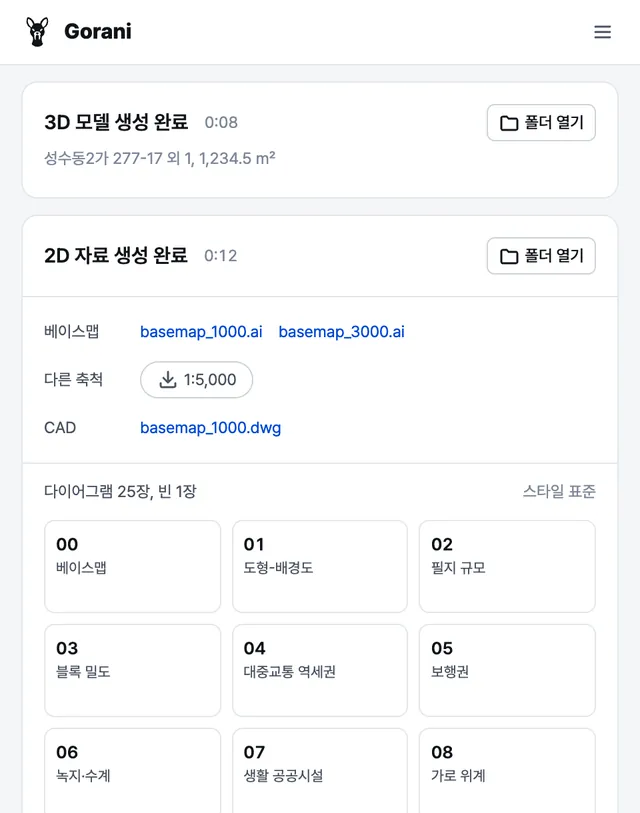
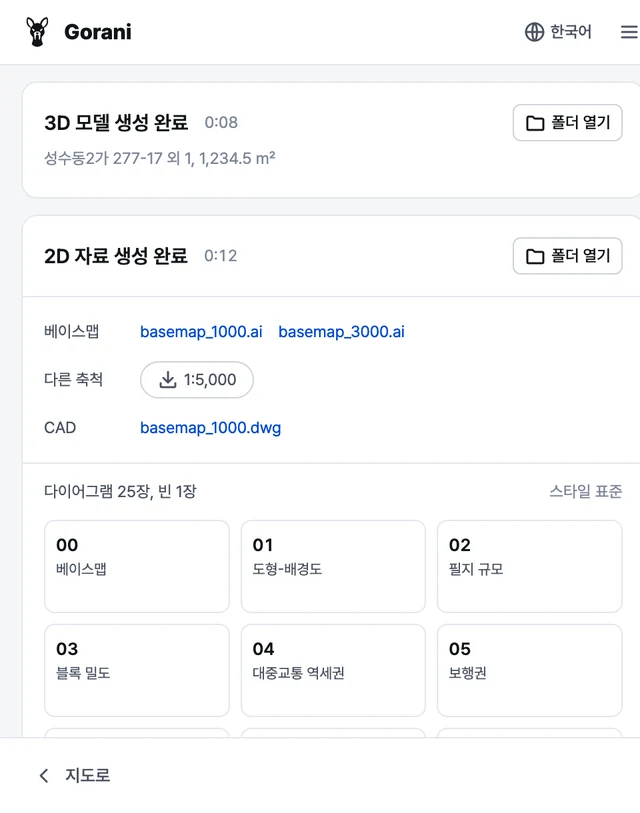
다국어 패널(0.3.0): 영어 페이지 사용 순서 그림을 영어 패널로, 두 페이지에 언어 안내, llms.txt 버튼 이름, 버전 0.3.0

diff --git a/en/index.html b/en/index.html
@@ -39,7 +39,7 @@
       "applicationSubCategory": "Rhino 8, SketchUp, Blender plugin",
       "operatingSystem": "Windows, macOS",
       "softwareRequirements": "Rhinoceros 8, SketchUp 2022 or later, Blender 4.2 or later",
-      "softwareVersion": "0.2.1",
+      "softwareVersion": "0.3.0",
       "isAccessibleForFree": true,
       "offers": { "@type": "Offer", "price": "0", "priceCurrency": "USD" },
       "inLanguage": "en",
@@ -210,26 +210,26 @@
       <div class="block-head">
         <div>
           <h2 id="flow-title">How it works</h2>
-          <p class="sub">The panel opens next to your modeling window. The default options are fine to start with.</p>
+          <p class="sub">The panel opens next to your modeling window. The default options are fine to start with.<br>It is in English, Korean, Spanish, Japanese and Simplified Chinese. Switch with the globe button at the top.</p>
         </div>
       </div>
       <ol class="flow">
         <li>
-          <img src="../assets/step-site.webp" width="640" height="813" loading="lazy" alt="Gorani panel map view. Two parcels are selected in blue, with the range shape and size below and a button to make the 3D model.">
+          <img src="../assets/step-site-en.webp" width="640" height="813" loading="lazy" alt="Gorani panel map view. Two parcels are selected in blue, with the range shape and size below and a button to make the 3D model.">
           <div>
             <h3><b>1</b>Pick a site and range</h3>
             <p>Click parcels on the map or draw an area, then set the range. Search by address or parcel number. Outside Korea it uses OpenStreetMap data.</p>
           </div>
         </li>
         <li>
-          <img src="../assets/step-3d.webp" width="640" height="813" loading="lazy" alt="Panel while the 3D model is being built. A gorani runs along the progress bar, with steps for loading buildings and terrain, building the model and adding it to the Rhino file.">
+          <img src="../assets/step-3d-en.webp" width="640" height="813" loading="lazy" alt="Panel while the 3D model is being built. A gorani runs along the progress bar, with steps for loading buildings and terrain, building the model and adding it to the Rhino file.">
           <div>
             <h3><b>2</b>Make the 3D model</h3>
             <p>Buildings, roads, terrain and water go into the open document on separate layers. Building heights come from floor counts.</p>
           </div>
         </li>
         <li>
-          <img src="../assets/step-2d.webp" width="640" height="813" loading="lazy" alt="Panel after the 2D set is done: basemap file names, a button for other scales, and a grid of diagrams such as basemap, figure-ground and parcel size.">
+          <img src="../assets/step-2d-en.webp" width="640" height="813" loading="lazy" alt="Panel after the 2D set is done: basemap file names, a button for other scales, and a grid of diagrams such as basemap, figure-ground and parcel size.">
           <div>
             <h3><b>3</b>Make the 2D set</h3>
             <p>The basemap (.ai), analysis maps and tables (CSV) are saved in <code>2D/</code> inside the result folder <code>result/site_date/</code>.</p>
@@ -253,7 +253,7 @@
       <li><a href="../" hreflang="ko" lang="ko">한국어</a></li>
     </ul>
     <div class="fine">
-      <p>Made by <a href="https://github.com/969flash">969flash</a>. Version 0.2.1.</p>
+      <p>Made by <a href="https://github.com/969flash">969flash</a>. Version 0.3.0.</p>
       <p>Data: Ministry of Land, Infrastructure and Transport, National Geographic Information Institute, Seoul Metropolitan Government (KOGL Type 1 and others; terms are printed on each drawing), © OpenStreetMap contributors (ODbL)</p>
       <p>This page counts visits with Google Analytics. The plugin sends a random install ID, version and OS, the site location and range, run time and error types to Google Analytics (the SketchUp and Blender versions only if you allow it). No names, file paths or drawing contents.</p>
       <p>Do not publish Korean results that contain contours or elevations (3D model, basemap) online. This is a restriction under NGII security rules.</p>

diff --git a/index.html b/index.html
@@ -39,7 +39,7 @@
       "applicationSubCategory": "Rhino 8, SketchUp, Blender plugin",
       "operatingSystem": "Windows, macOS",
       "softwareRequirements": "Rhinoceros 8, SketchUp 2022 이상, Blender 4.2 이상",
-      "softwareVersion": "0.2.1",
+      "softwareVersion": "0.3.0",
       "isAccessibleForFree": true,
       "offers": { "@type": "Offer", "price": "0", "priceCurrency": "KRW" },
       "inLanguage": "ko",
@@ -210,7 +210,7 @@
       <div class="block-head">
         <div>
           <h2 id="flow-title">사용 순서</h2>
-          <p class="sub">패널은 프로그램 옆에 붙어 열립니다. 옵션은 기본값으로 둬도 됩니다.</p>
+          <p class="sub">패널은 프로그램 옆에 붙어 열립니다. 옵션은 기본값으로 둬도 됩니다.<br>패널 언어는 위쪽 지구본 버튼에서 영어·한국어·스페인어·일본어·중국어로 바꿀 수 있습니다.</p>
         </div>
       </div>
       <ol class="flow">
@@ -253,7 +253,7 @@
       <li><a href="en/" hreflang="en" lang="en">English</a></li>
     </ul>
     <div class="fine">
-      <p>만든 사람 <a href="https://github.com/969flash">969flash</a>. 버전 0.2.1.</p>
+      <p>만든 사람 <a href="https://github.com/969flash">969flash</a>. 버전 0.3.0.</p>
       <p>데이터: 국토교통부, 국토지리정보원, 서울특별시(공공누리 제1유형 등, 이용 조건은 도면 출처 줄에 표기), © OpenStreetMap contributors (ODbL)</p>
       <p>이 페이지는 방문 통계를 Google Analytics로 셉니다. 플러그인은 설치마다 만든 무작위 ID, 버전과 OS, 생성한 대상지 위치와 범위, 걸린 시간, 오류 종류를 Google Analytics로 보냅니다(SketchUp, Blender판은 허락한 경우에만). 이름, 파일 경로, 도면 내용은 보내지 않습니다.</p>
       <p>등고선이나 표고가 든 결과물(3D 모델, 베이스맵)은 인터넷에 올리지 마세요. 국토지리정보원 보안관리규정에 따른 제한입니다.</p>
